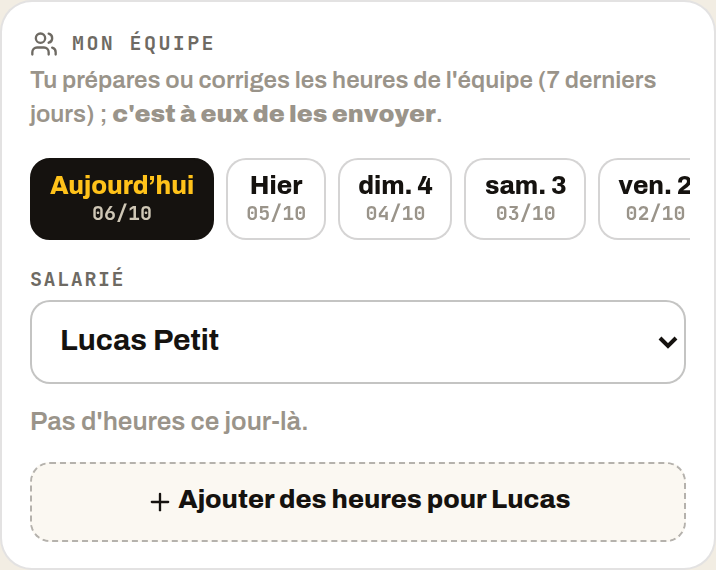
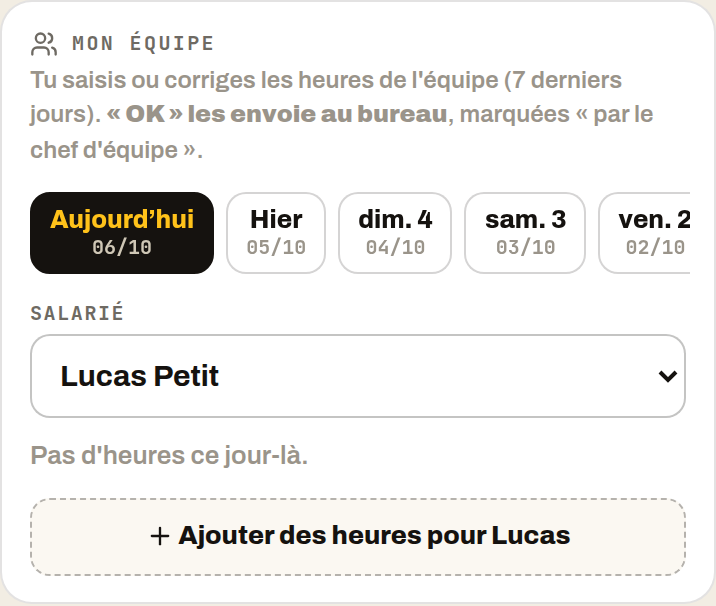
Lot 14 (correctif) : le chef d'équipe ENVOIE ce qu'il saisit — la journée arrive chez le patron et dans l'export
Cas visé : salariés qui n'ouvrent jamais l'appli ; les lignes préparées par le
chef restaient « à envoyer » et n'entraient jamais dans l'export ni la paie.

- Base (même migration lot 14, toujours non appliquée) : fonction
  lead_send_entries — vérifie avec les droits du CHEF (équipe, 7 jours,
  brouillon, non verrouillé), puis passe la ligne en « envoyée » AU NOM du
  salarié : mois / salarié clôturé, sortie oubliée « à compléter » restent
  refusés ; trace « par le chef d'équipe ». Test PGlite 54/0, dont « la
  journée entre dans l'export du mois ».
- « Mon équipe » : « OK — envoyer au bureau » enregistre ET envoie ; bouton
  « Envoyer » sur un brouillon laissé par le salarié. Le salarié peut encore
  corriger tant que ce n'est pas validé (« modifié après envoi »).
- Textes : écran, confirmation « chef d'équipe », aide de l'Assistant ; plan
  de mise en prod (SQL D, retour arrière).

Claude-Session: https://claude.ai/code/session_01UjXHEzdjb9t6bteo8SrVhu

diff --git a/components/team-day.tsx b/components/team-day.tsx
@@ -18,9 +18,13 @@
 // trois états affichés sont MOT POUR MOT ceux de la journée du salarié : chez
 // le comptable, envoyé, à envoyer.
 //
-// CE QU'IL NE FAIT PAS, ET C'EST DÉLIBÉRÉ. Il n'ENVOIE pas à la place de ses
-// salariés : le chef prépare, le salarié envoie (la base le refuse aussi). Il
-// ne voit ni taux horaire, ni coût, ni paie, ni réglages.
+// LOT 14, CORRECTIF : dans certaines entreprises, les salariés n'ouvrent jamais
+// l'appli — c'est le chef qui saisit. « OK » ENREGISTRE ET ENVOIE donc au
+// bureau (lead_send_entries) : la journée arrive chez le patron comme une
+// journée envoyée, badge « par le chef d'équipe ». Le salarié qui utilise
+// l'appli peut encore la corriger tant qu'elle n'est pas validée (« modifié
+// après envoi » côté bureau). Le chef ne voit ni taux horaire, ni coût, ni
+// paie, ni réglages.
 
 import { useCallback, useEffect, useMemo, useState } from 'react';
 import { supabase } from '@/lib/supabase';
@@ -53,6 +57,15 @@ interface Props {
   onChanged: () => void;
 }
 
+/** Envoi au bureau par le chef (lot 14). `missing` = serveur pas encore à jour. */
+async function sendForWorker(ids: string[]): Promise<'ok' | 'missing'> {
+  const { error } = await supabase.rpc('lead_send_entries', { p_ids: ids });
+  if (!error) return 'ok';
+  const code = (error as { code?: string }).code;
+  if (code === 'PGRST202' || code === '42883') return 'missing';
+  throw error;
+}
+
 /** Lot 14 : 7 derniers jours, aujourd'hui compris (même fenêtre qu'en base). */
 export const LEAD_DAYS = 7;
 
@@ -79,6 +92,7 @@ const TD_CSS = `
 .bt-td-tag.verrou{background:#EFEDE8;color:#5c574f}
 .bt-td-edit{flex:none;border:1.5px solid rgba(21,18,15,.2);background:#fff;border-radius:8px;padding:5px 9px;font-family:inherit;font-weight:800;font-size:12px;color:#15120F;cursor:pointer}
 .bt-td-edit:disabled{opacity:.45}
+.bt-td-edit.send{background:#FFC21A;border-color:#FFC21A}
 .bt-td-add{margin-top:8px;width:100%;border:1.5px dashed rgba(21,18,15,.3);background:#FBF8F2;border-radius:10px;padding:9px;font-family:inherit;font-weight:800;font-size:13px;color:#15120F;cursor:pointer}
 .bt-td-empty{font-size:13px;color:#9a948a;font-weight:600;padding:10px 0 2px;line-height:1.5}
 .bt-td-form{margin-top:10px;padding-top:10px;border-top:1px solid rgba(21,18,15,.09)}
@@ -179,6 +193,7 @@ export default function TeamDay({ me, today, worksites, onChanged }: Props) {
     if (!existing && !site) { toast.error('Choisis le chantier.'); return; }
     if (existing && start === existing.start_time.slice(0, 5) && end === existing.end_time.slice(0, 5)) { setEditing(null); return; }
     setSaving(true);
+    let savedId: string | null = null;
     try {
       if (existing) {
         if (existing.locked) throw new Error('Ces heures sont chez le comptable : elles ne se corrigent plus.');
@@ -200,18 +215,23 @@ export default function TeamDay({ me, today, worksites, onChanged }: Props) {
           }).eq('id', existing.id).select('id');
         if (error) throw error;
         if (!data || data.length === 0) throw new Error('Ces heures ne se corrigent plus (validées, verrouillées ou clôturées).');
+        savedId = existing.id;
       } else {
-        const { error } = await supabase.from('time_entries').insert({
+        const { data, error } = await supabase.from('time_entries').insert({
           company_id: me.company_id, user_id: person.id, worksite_id: site,
           work_date: day, start_time: start, end_time: end,
           break_minutes: 0, meal_allowance: false, status: 'draft',
-        });
+        }).select('id');
         if (error) throw error;
+        savedId = (data as { id: string }[] | null)?.[0]?.id ?? null;
       }
+      // Lot 14 : « OK » envoie au bureau (le salarié n'ouvre peut-être jamais l'appli).
+      const sent = savedId ? await sendForWorker([savedId]) : 'missing';
       setEditing(null);
       await load();
       onChanged();
-      toast.success(`C’est noté — ${person.first_name} devra l’envoyer`);
+      if (sent === 'ok') toast.success(`Envoyé au bureau pour ${person.first_name} — « par le chef d’équipe »`);
+      else toast.message(`C’est noté pour ${person.first_name} (envoi au bureau bientôt disponible).`);
     } catch (e) {
       const msg = (e as { message?: string })?.message || '';
       toast.error(/cl[ôo]tur/i.test(msg) ? 'Heures clôturées par le bureau : plus de saisie sur ce jour.'
@@ -222,13 +242,29 @@ export default function TeamDay({ me, today, worksites, onChanged }: Props) {
     }
   };
 
+  /** Une ligne en brouillon (notée par le salarié sans l'envoyer) : le chef l'envoie. */
+  const sendOne = async (r: Row) => {
+    if (!person) return;
+    setSaving(true);
+    try {
+      const sent = await sendForWorker([r.id]);
+      await load(); onChanged();
+      if (sent === 'ok') toast.success(`Envoyé au bureau pour ${person.first_name} — « par le chef d’équipe »`);
+      else toast.message('Envoi au bureau bientôt disponible.');
+    } catch (e) {
+      const msg = (e as { message?: string })?.message || '';
+      toast.error(/cl[ôo]tur/i.test(msg) ? 'Heures clôturées par le bureau : plus d’envoi sur ce jour.'
+        : /indiquez l/i.test(msg) ? 'Sortie oubliée : mets d’abord l’heure de fin.' : msg || 'Envoi impossible.');
+    } finally { setSaving(false); }
+  };
+
   const dayLabel = (d: string, i: number) => (i === 0 ? 'Aujourd’hui' : i === 1 ? 'Hier' : format(parseISO(d), 'EEE d', { locale: fr }));
 
   return (
     <div className="bt-td" data-testid="team-day">
       <style dangerouslySetInnerHTML={TD_CSS_HTML} />
       <div className="bt-td-h"><Users className="h-3.5 w-3.5" /> Mon équipe</div>
-      <div className="bt-td-sub">Tu prépares ou corriges les heures de l&apos;équipe (7 derniers jours) ; <strong>c&apos;est à eux de les envoyer</strong>.</div>
+      <div className="bt-td-sub">Tu saisis ou corriges les heures de l&apos;équipe (7 derniers jours). <strong>« OK » les envoie au bureau</strong>, marquées « par le chef d&apos;équipe ».</div>
 
       <div className="bt-td-days" role="group" aria-label="Jour">
         {days.map((d, i) => (
@@ -261,6 +297,9 @@ export default function TeamDay({ me, today, worksites, onChanged }: Props) {
               <button type="button" className="bt-td-edit" disabled={r.locked || r.status === 'validated'} onClick={() => openEditor(r)} data-testid="td-edit">
                 Corriger
               </button>
+              {r.status === 'draft' && !r.locked && (
+                <button type="button" className="bt-td-edit send" disabled={saving} onClick={() => void sendOne(r)} data-testid="td-send">Envoyer</button>
+              )}
             </div>
           ))}
           {person && !editing && (
@@ -302,9 +341,9 @@ export default function TeamDay({ me, today, worksites, onChanged }: Props) {
             </div>
           </div>
           <button type="button" className="bt-td-save" disabled={saving} onClick={save} data-testid="td-save">
-            {saving ? <Loader2 className="inline h-4 w-4 animate-spin" /> : 'OK'}
+            {saving ? <Loader2 className="inline h-4 w-4 animate-spin" /> : 'OK — envoyer au bureau'}
           </button>
-          <div className="bt-td-note">Noté « par le chef d&apos;équipe », visible du bureau.</div>
+          <div className="bt-td-note">Envoyé au bureau « par le chef d&apos;équipe ». S&apos;il utilise l&apos;appli, {person.first_name} peut encore corriger.</div>
         </div>
       )}
     </div>

diff --git a/supabase/functions/_shared/worker-assistant-core.ts b/supabase/functions/_shared/worker-assistant-core.ts
@@ -460,7 +460,7 @@ export const WORKER_GUIDE: WorkerGuideEntry[] = [
     etapes: ['Icône scanner en haut de l’écran.', 'Visez le QR code de la borne.', 'Le pointage démarre (ou s’arrête).'], lien: 'borne' },
   // Lot 14 : toute l'équipe, sur les 7 derniers jours (plus besoin d'être sur le même chantier).
   { mots: ['mon equipe', 'chef d equipe', 'heures de l equipe', 'saisir pour un salarie', 'heures d hier'], titre: 'Chef d’équipe : noter les heures de l’équipe',
-    etapes: ['« Mon équipe » (chef d’équipe seulement) : choisissez le jour (7 derniers jours) et le salarié.', '« Corriger » sa ligne, ou « Ajouter des heures » (chantier, début, fin), puis « OK ».', 'C’est le salarié qui envoie sa journée.'], lien: 'journee' },
+    etapes: ['« Mon équipe » (chef d’équipe seulement) : choisissez le jour (7 derniers jours) et le salarié.', '« Corriger » sa ligne, ou « Ajouter des heures » (chantier, début, fin).', '« OK — envoyer au bureau » : c’est envoyé, marqué « par le chef d’équipe ».'], lien: 'journee' },
   { mots: ['informations', 'confidentialite', 'donnees', 'position gps'], titre: 'Informations sur vos données',
     etapes: ['Menu (votre nom en haut à droite).', '« Informations ».'], lien: 'infos' },
   { mots: ['collegues', 'ou sont les autres', 'planning des collegues'], titre: 'Savoir où sont ses collègues',

diff --git a/components/admin-planning.tsx b/components/admin-planning.tsx
@@ -1877,7 +1877,7 @@ export default function AdminPlanning({ trial, onSubscribe }: AdminPlanningProps
       const q = role === 'admin'
         ? `Donner à ${label} l'accès complet au bureau ? Cette personne pourra voir les taux horaires, sortir la paie et modifier les réglages.`
         : role === 'lead'
-        ? `Faire de ${label} un chef d'équipe ? Il pourra saisir et corriger les heures de tous les salariés de l'entreprise sur les 7 derniers jours (jamais une journée validée ou clôturée), marquées « par le chef d'équipe ». Ce sont les salariés qui envoient. Il ne verra ni les taux horaires, ni le coût des chantiers, ni la paie, ni les réglages.`
+        ? `Faire de ${label} un chef d'équipe ? Il pourra saisir et corriger les heures de tous les salariés de l'entreprise sur les 7 derniers jours (jamais une journée validée ou clôturée), envoyées au bureau et marquées « par le chef d'équipe ». Le salarié peut encore corriger tant que ce n'est pas validé. Il ne verra ni les taux horaires, ni le coût des chantiers, ni la paie, ni les réglages.`
         : `Repasser ${label} en simple salarié ? Il ne verra plus que ses propres heures.`;
       if (!window.confirm(q)) return;
     }

diff --git a/supabase/functions/_shared/assistant-actions-core.ts b/supabase/functions/_shared/assistant-actions-core.ts
@@ -129,7 +129,7 @@ export const GUIDE: GuideEntry[] = [
   {
     id: 'role', mots: ['chef d equipe', 'role', 'droits', 'bureau', 'admin', 'secretaire'],
     titre: 'Changer le rôle de quelqu’un',
-    etapes: ['« Salariés ».', 'Sur sa ligne : Salarié, Chef d’équipe ou Bureau.', 'C’est enregistré tout de suite. Un chef d’équipe saisit et corrige les heures de toute l’équipe sur 7 jours (marquées « par le chef d’équipe ») ; les salariés envoient.'],
+    etapes: ['« Salariés ».', 'Sur sa ligne : Salarié, Chef d’équipe ou Bureau.', 'C’est enregistré tout de suite. Un chef d’équipe saisit, corrige et envoie les heures de toute l’équipe sur 7 jours (marquées « par le chef d’équipe »).'],
     lien: 'salaries',
   },
   {

diff --git a/docs/lot14-chef-equipe.md b/docs/lot14-chef-equipe.md
@@ -8,7 +8,7 @@ Aucun nouveau réglage. Les salariés ne changent rien.
 | Quand | Le jour même | Les **7 derniers jours**, aujourd'hui compris |
 | Doublon | Possible | Déjà une ligne ce jour-là sur ce chantier → **corrigée**, pas doublée (refus en base) |
 | Trace | — | **« par le chef d'équipe »** sur la fiche salarié (bureau), posée par la base |
-| Envoi | Le salarié | Le salarié (inchangé) |
+| Envoi | Le salarié | **« OK » envoie au bureau** (salariés qui n'ouvrent jamais l'appli). Le salarié peut encore corriger tant que ce n'est pas validé (« modifié après envoi ») |
 | Interdit | — | Ligne validée ou verrouillée, mois clôturé, salarié clôturé (gardes existants) |
 | Écran | « Mon équipe aujourd'hui » | « Mon équipe » : choix du **jour** (7 derniers) et du **salarié** |
 
@@ -18,11 +18,13 @@ Migration `20261006120000_lot14_chef_equipe_7_jours.sql` :
 - **nouvelle version** de `is_my_team_member(uuid, date)` (même signature, même
   sécurité) : toutes les policies et `correct_time_entry` suivent sans être modifiées ;
 - additif : colonnes `time_entries.lead_edited_by` / `lead_edited_at`, trigger
-  `time_entries_lead_guard` (pas de doublon, trace) ;
+  `time_entries_lead_guard` (pas de doublon, trace), fonction `lead_send_entries`
+  (le chef envoie : vérifié avec SES droits, passé en « envoyé » AU NOM du
+  salarié, donc tous les gardes du salarié s'appliquent) ;
 - retour arrière : l'ancienne version est recopiée à la fin du fichier.
 
 ## Tests
 
-- PGlite `npm run test:chef-equipe` (37 vérifications)
+- PGlite `npm run test:chef-equipe` (54 vérifications, dont « le chef envoie → la journée entre dans l'export du mois »)
 - Navigateur `scripts/tests/salarie-lot14.mjs` + non-régression
 - Captures `docs/captures-lot14/`

diff --git a/docs/mise-en-prod-lots-11-12.md b/docs/mise-en-prod-lots-11-12.md
@@ -74,6 +74,7 @@ SELECT (SELECT count(*) FROM information_schema.columns WHERE table_schema = 'pu
 SELECT (SELECT count(*) FROM information_schema.columns WHERE table_schema = 'public' AND table_name = 'time_entries' AND column_name IN ('lead_edited_by','lead_edited_at')) AS colonnes_2,
        (SELECT count(*) FROM pg_trigger WHERE tgname = 'time_entries_lead_guard') AS trigger_1,
        (SELECT prosrc LIKE '%- 6%' FROM pg_proc WHERE proname = 'is_my_team_member') AS regle_7_jours_true,
+       has_function_privilege('authenticated', 'public.lead_send_entries(uuid[])', 'EXECUTE') AS envoi_chef_true,
        (SELECT count(*) FROM pg_policies WHERE tablename = 'time_entries') AS policies_inchangees,
        (SELECT count(*) FROM public.time_entries WHERE lead_edited_by IS NOT NULL) AS lignes_touchees_0,
        (SELECT count(*) FROM public.kiosks WHERE revoked_at IS NULL) AS kiosks_actifs_inchange;
@@ -85,7 +86,7 @@ Lot 13 : front seul, rien à appliquer. Il part avec la fusion dans `main`.
 ### R14 (avant R12 et R11)
 
 Le SQL complet est en bas de `20261006120000_lot14_chef_equipe_7_jours.sql` :
-retirer le trigger `time_entries_lead_guard`, la fonction `guard_time_entry_lead`,
+retirer la fonction `lead_send_entries`, le trigger `time_entries_lead_guard`, la fonction `guard_time_entry_lead`,
 et remettre l'ancienne `is_my_team_member` (recopiée mot pour mot).
 
 ## Retour arrière
